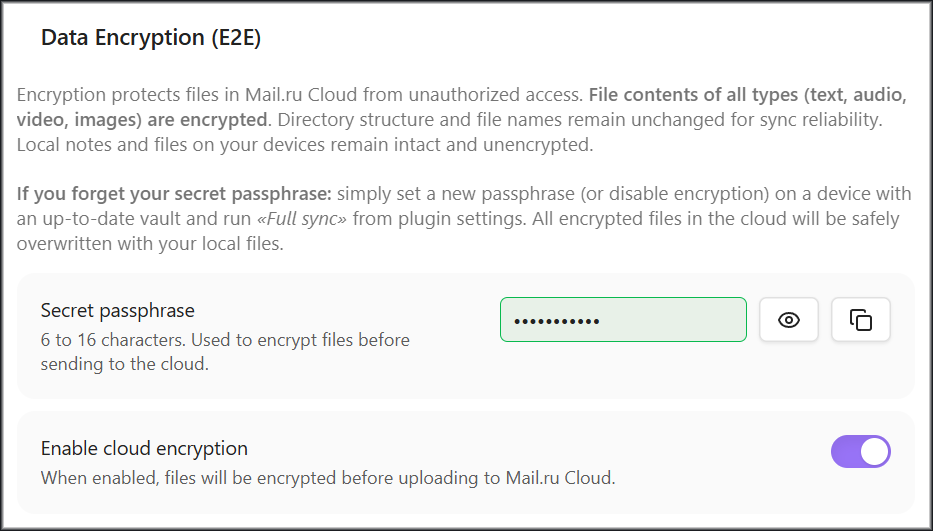
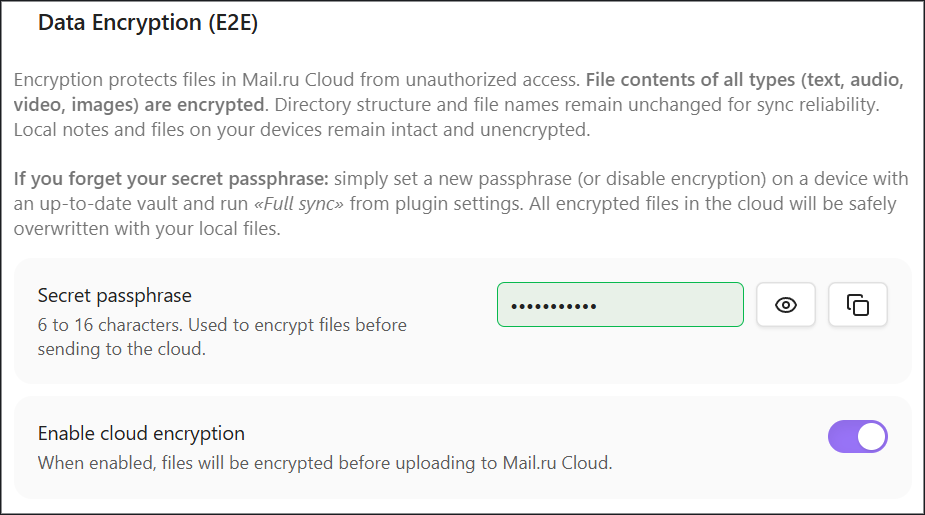
docs: добавлен англоязычный README.md, поддержка mailru-cloud-sync.zip в релизах и обновлены инструкции

Changed region(s): [[0.0, 0.0, 0.9989, 1.0], [0.5146, 0.5592, 0.8778, 0.6524], [0.9081, 0.5592, 0.9384, 0.6214]]

diff --git a/README.md b/README.md
@@ -1,0 +1,135 @@
+# ☁ Mail.ru Cloud Sync for Obsidian
+
+**English** • [Русская версия](README_RU.md)
+
+An [Obsidian](https://obsidian.md) plugin for synchronizing your vault notes and attachments via **Mail.ru Cloud (WebDAV)**, featuring **End-to-End Encryption (E2E)**, accidental deletion protection, and seamless settings transfer between devices.
+
+> 💡 *This project is built upon the open-source [Yandex Disk Sync](https://github.com/Nikolay-Eltsov/obsidian-yadisk-sync) plugin by [Nikolay Eltsov](https://github.com/Nikolay-Eltsov), adapted for Mail.ru Cloud WebDAV protocol, and extended with AES-256-GCM End-to-End Encryption and encrypted link configuration transfer.*
+
+---
+
+## 🌟 Key Features
+
+- 🚀 **Direct WebDAV Synchronization**: Connects directly to official Mail.ru Cloud servers without third-party proxies.
+- 🔐 **End-to-End Encryption (AES-256-GCM)**: Protects the contents of notes and attachments before uploading to the cloud.
+  - Files are encrypted on your local device using AES-256-GCM with key derivation via PBKDF2 (SHA-256, 100,000 iterations).
+  - Folder structure and file names remain intact for reliable synchronization.
+  - Local files on your devices remain unencrypted in their original state.
+- 📲 **Instant Settings Transfer via Link**:
+  - Quickly transfer all plugin parameters (including credentials and secret passphrase) to a phone, tablet, or another computer with a single click using a secure link `obsidian://mailru-sync-import?data=...`.
+  - Link payload is encrypted with a separate temporary password (6 to 16 characters).
+- 🛡 **Intelligent Data Loss Protection**:
+  - **Mass Deletion Protection**: If a sync operation would delete more files than the configured threshold (or over 25% of the vault), synchronization pauses automatically and asks for confirmation.
+  - **Fail-Fast Encrypted Vault Guard**: If encrypted files are detected in the cloud while the local secret passphrase is not set, synchronization stops immediately to protect the cloud vault from accidental overwriting.
+- ⚡ **Bidirectional Sync & Flexible Conflict Resolution**:
+  - Sync direction options: Bidirectional, Push only, or Pull only.
+  - Conflict resolution strategies: Newer wins, Local wins, Remote wins, or Manual prompt.
+  - Automatic scheduled sync (intervals from 10 seconds to 1 hour).
+- 🌍 **Full Bilingual Localization**: Complete interface available in English and Russian.
+
+---
+
+## 📸 Interface Screenshots
+
+#### General Settings & Connection Status
+![Plugin Settings and Connection Status](images/settings_overview.png)
+*Figure 1: Settings tab, colored connection verification, and sync options.*
+
+#### End-to-End Encryption (E2E) Section
+![End-to-End Encryption](images/encryption_settings.png)
+*Figure 2: Setting secret passphrase and enabling AES-256-GCM encryption.*
+
+#### Settings Export & Transfer Dialog
+![Export and Import via Link](images/export_import_modal.png)
+*Figure 3: Transferring settings across devices via password-protected encrypted link.*
+
+---
+
+## 📦 Installation
+
+To install the plugin manually:
+1. Go to the [GitHub Releases](https://github.com/Centhron/obsidian-mailru-cloud-sync/releases) page and download **`mailru-cloud-sync.zip`** (or the 3 individual files: `main.js`, `manifest.json`, `styles.css`) from the latest release.
+2. Extract the archive into your vault's hidden plugins directory: `.obsidian/plugins/` (resulting in `.obsidian/plugins/mailru-cloud-sync/` containing the plugin files).
+3. Reload Obsidian (or press `Ctrl + R`), go to **Settings** → **Community plugins**, and enable **Mail.ru Cloud Sync**.
+
+---
+
+## 🚀 Quick Start
+
+### 1. Generating an Application Password in Mail.ru
+For secure WebDAV access, Mail.ru requires creating a dedicated application password (never enter your primary account password):
+
+1. Open Mail.ru security settings: [Application Passwords](https://account.mail.ru/user/2-step-auth/passwords).
+2. Click **Add password** (or "Create").
+3. Enter a label, for example: `Obsidian Sync`.
+4. Copy the generated 16-character password.
+
+### 2. Configuring the Plugin in Obsidian
+1. Open **Obsidian Settings** → **Mail.ru Cloud Sync**.
+2. In the **Mail.ru Email** field, enter your email address (e.g. `user@mail.ru`).
+3. In the **Password for external application** field, paste your generated application password.
+4. Click **Check connection**.
+   - Upon successful verification, the status indicator will turn green: `✓ Connected to Mail.ru Cloud (user@mail.ru)`.
+5. Specify the remote folder path (default: `/ObsidianVault`). The plugin will create it automatically in Mail.ru Cloud upon first sync.
+
+---
+
+## ⌨ Plugin Commands (Command Palette / Hotkeys)
+
+In Obsidian, press `Ctrl + P` (`Cmd + P` on macOS) to invoke commands, or assign custom shortcuts in **Settings → Hotkeys**:
+
+| Command | Action Description |
+| :--- | :--- |
+| **Sync now** | Runs bidirectional sync. Instant when Mail.ru Cloud reports no changes. Can also be triggered by clicking the status bar icon. |
+| **Full sync: read Mail.ru Cloud and the vault again** | Re-reads the remote folder and local vault from scratch without relying on cached snapshots. Useful for recovery and state reconciliation. |
+| **Push all** | One-way upload of all local vault files to Mail.ru Cloud. |
+| **Pull all** | One-way download of all files from Mail.ru Cloud to the local vault. |
+| **Abort sync** | Immediately terminates the ongoing sync process. |
+| **Show sync queue** | Opens the sidebar view showing transferring files, upcoming items, and sync history. |
+| **Show sync status** | Displays the floating progress and failure indicator notice. |
+
+---
+
+## 🔐 Setting Up End-to-End Encryption (E2E)
+
+To protect your files from unauthorized access:
+1. In the **Data Encryption (E2E)** section, enter a strong **Secret passphrase** (6 to 16 characters).
+2. Toggle on **Enable cloud encryption** and confirm the dialog prompt.
+3. The plugin will automatically encrypt all vault files with AES-256-GCM and upload them to Mail.ru Cloud.
+
+> 💡 **Tip:** Keep your secret passphrase safe! Accessing your notes from other devices requires entering the exact same passphrase (or transferring it via the export link).
+
+---
+
+## 📲 Transferring Settings to Mobile, Tablet, or PC
+
+You don't need to manually type long passwords and folder paths on your phone or tablet:
+1. On your configured device, click **Export settings**.
+2. Set a link password (6 to 16 characters) and click **Generate link**.
+3. Click **Copy import link** and send it to your other device through a secure channel (e.g. "Saved Messages" in Telegram).
+4. On the destination device:
+   - Either **click the link** (Obsidian opens automatically and prompts for the link password).
+   - Or open plugin settings, click **Import settings**, paste the link, and enter the password.
+5. All credentials, paths, and encryption parameters will be applied instantly!
+
+---
+
+## 🛡 Security & Privacy
+
+- The plugin **does not** collect telemetry or send data to any third-party analytics servers.
+- All network requests are routed exclusively to the official secure Mail.ru Cloud WebDAV endpoint (`https://webdav.cloud.mail.ru`) over encrypted HTTPS.
+- Credentials are saved locally inside your vault configuration (`.obsidian/plugins/mailru-cloud-sync/data.json`).
+- If an application password is ever compromised, you can revoke it immediately in your [Mail.ru security cabinet](https://account.mail.ru/user/2-step-auth/passwords) in a single click.
+
+---
+
+## 📜 License & Credits
+
+This plugin is distributed under the open-source **MIT License**. For full details, see [LICENSE](LICENSE).
+
+### Credits
+This project is developed based on the open-source [Yandex Disk Sync](https://github.com/Nikolay-Eltsov/obsidian-yadisk-sync) plugin by [Nikolay Eltsov](https://github.com/Nikolay-Eltsov). We express our sincere gratitude to the author for the synchronization engine architecture, three-way merge logic, and queue implementation. You can find additional helpful information on the author's project page.
+
+This version provides adaptation for the Mail.ru Cloud WebDAV protocol, integrated client-side AES-256-GCM End-to-End Encryption, secure encrypted-link configuration transfer, and full bilingual localization.
+
+Development and adaptation of this project were carried out by **Centhron** in close collaboration with Superintelligence technologies (SI pair programming).

diff --git a/README_RU.md b/README_RU.md
@@ -47,14 +47,10 @@
 
 ## 📦 Установка
 
-Для ручной установки плагина выполните несколько простых шагов:
-1. Перейдите на страницу [GitHub Releases](https://github.com/Centhron/obsidian-mailru-cloud-sync/releases) и скачайте 3 файла из последнего релиза:
-   - `main.js`
-   - `manifest.json`
-   - `styles.css`
-2. В папке вашего хранилища найдите скрытую папку `.obsidian/plugins/` и создайте внутри неё папку `mailru-cloud-sync`.
-3. Скопируйте скачанные файлы в созданную папку `.obsidian/plugins/mailru-cloud-sync/`.
-4. Перезапустите Obsidian (или нажмите `Ctrl + R`), перейдите в **Настройки** → **Сторонние плагины** и включите **Mail.ru Cloud Sync**.
+Для ручной установки плагина:
+1. Перейдите на страницу [GitHub Releases](https://github.com/Centhron/obsidian-mailru-cloud-sync/releases) и скачайте архив **`mailru-cloud-sync.zip`** (или 3 отдельных файла `main.js`, `manifest.json`, `styles.css`) из последнего релиза.
+2. Распакуйте архив в скрытую папку плагинов вашего хранилища: `.obsidian/plugins/` (в итоге у вас должна получиться папка `.obsidian/plugins/mailru-cloud-sync/` с файлами плагина внутри).
+3. Перезапустите Obsidian (или нажмите `Ctrl + R`), откройте **Настройки** → **Сторонние плагины** и включите **Mail.ru Cloud Sync**.
 
 ---
 
@@ -132,8 +128,8 @@
 Плагин распространяется под свободной лицензией **MIT License**. Подробнее см. в файле [LICENSE](LICENSE).
 
 ### Благодарности
-Этот проект разработан на основе открытого плагина [Yandex Disk Sync](https://github.com/Nikolay-Eltsov/obsidian-yadisk-sync) от [Николая Ельцова (Nikolay Eltsov)](https://github.com/Nikolay-Eltsov). Выражаем искреннюю благодарность автору за превосходную архитектуру движка синхронизации, трёхстороннее слияние и систему очередей.
+Этот проект разработан на основе открытого плагина [Yandex Disk Sync](https://github.com/Nikolay-Eltsov/obsidian-yadisk-sync) от [Николая Ельцова (Nikolay Eltsov)](https://github.com/Nikolay-Eltsov). Выражаем искреннюю благодарность автору за превосходную архитектуру движка синхронизации, трёхстороннее слияние и систему очередей. Вы сможете найти дополнительную полезную информацию на странице проекта автора.
 
 В текущей версии плагина реализована адаптация под протокол WebDAV Облака Mail.ru, внедрено сквозное E2E-шифрование файлов, система безопасного переноса настроек по зашифрованной ссылке и полная двуязычная локализация.
 
-Разработка и адаптация данного проекта выполнены **Centhron** в тесном сотрудничестве с передовыми технологиями искусственного интеллекта и суперинтеллекта (SI / AI pair programming). Искусственный интеллект выступал в роли Senior Software Engineer и технического лидера, помогая проектировать архитектуру безопасности, E2E-шифрование и алгоритмы синхронизации данных.
+Разработка и адаптация данного проекта выполнены **Centhron** в тесном сотрудничестве с технологиями суперинтеллекта (SI pair programming).
